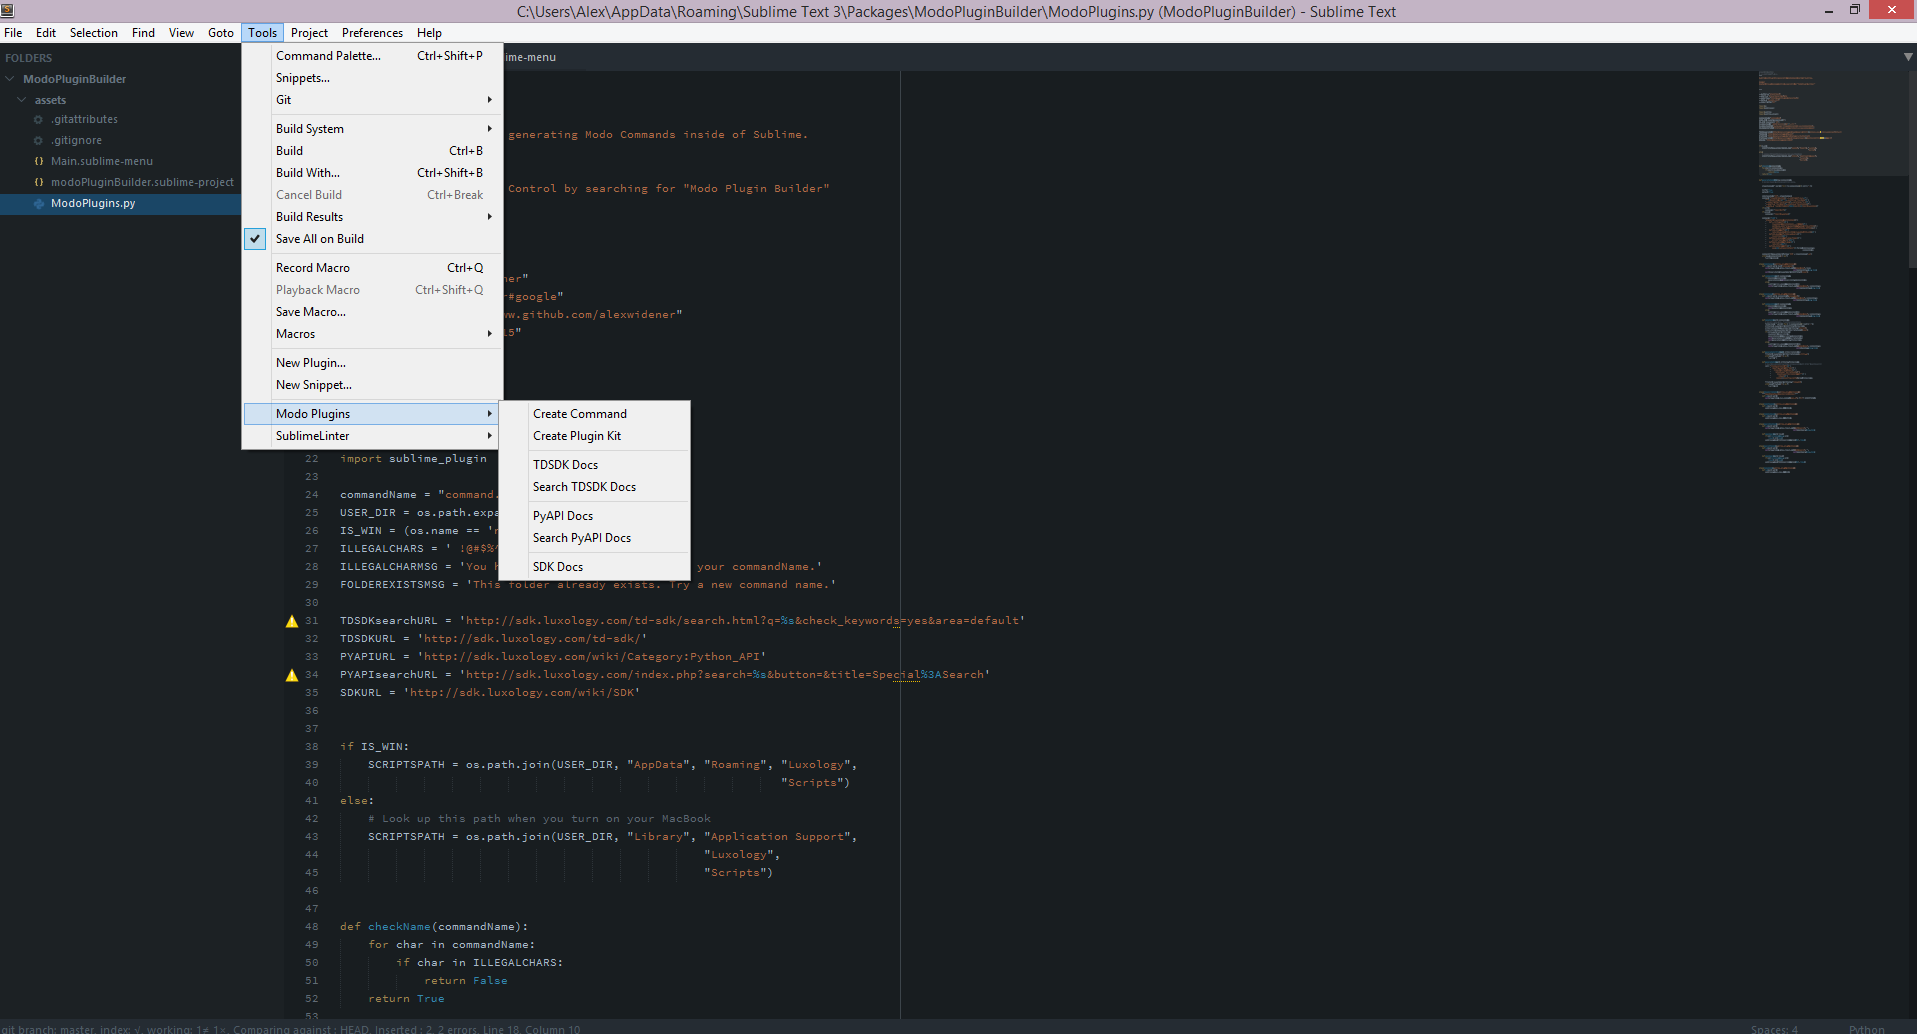
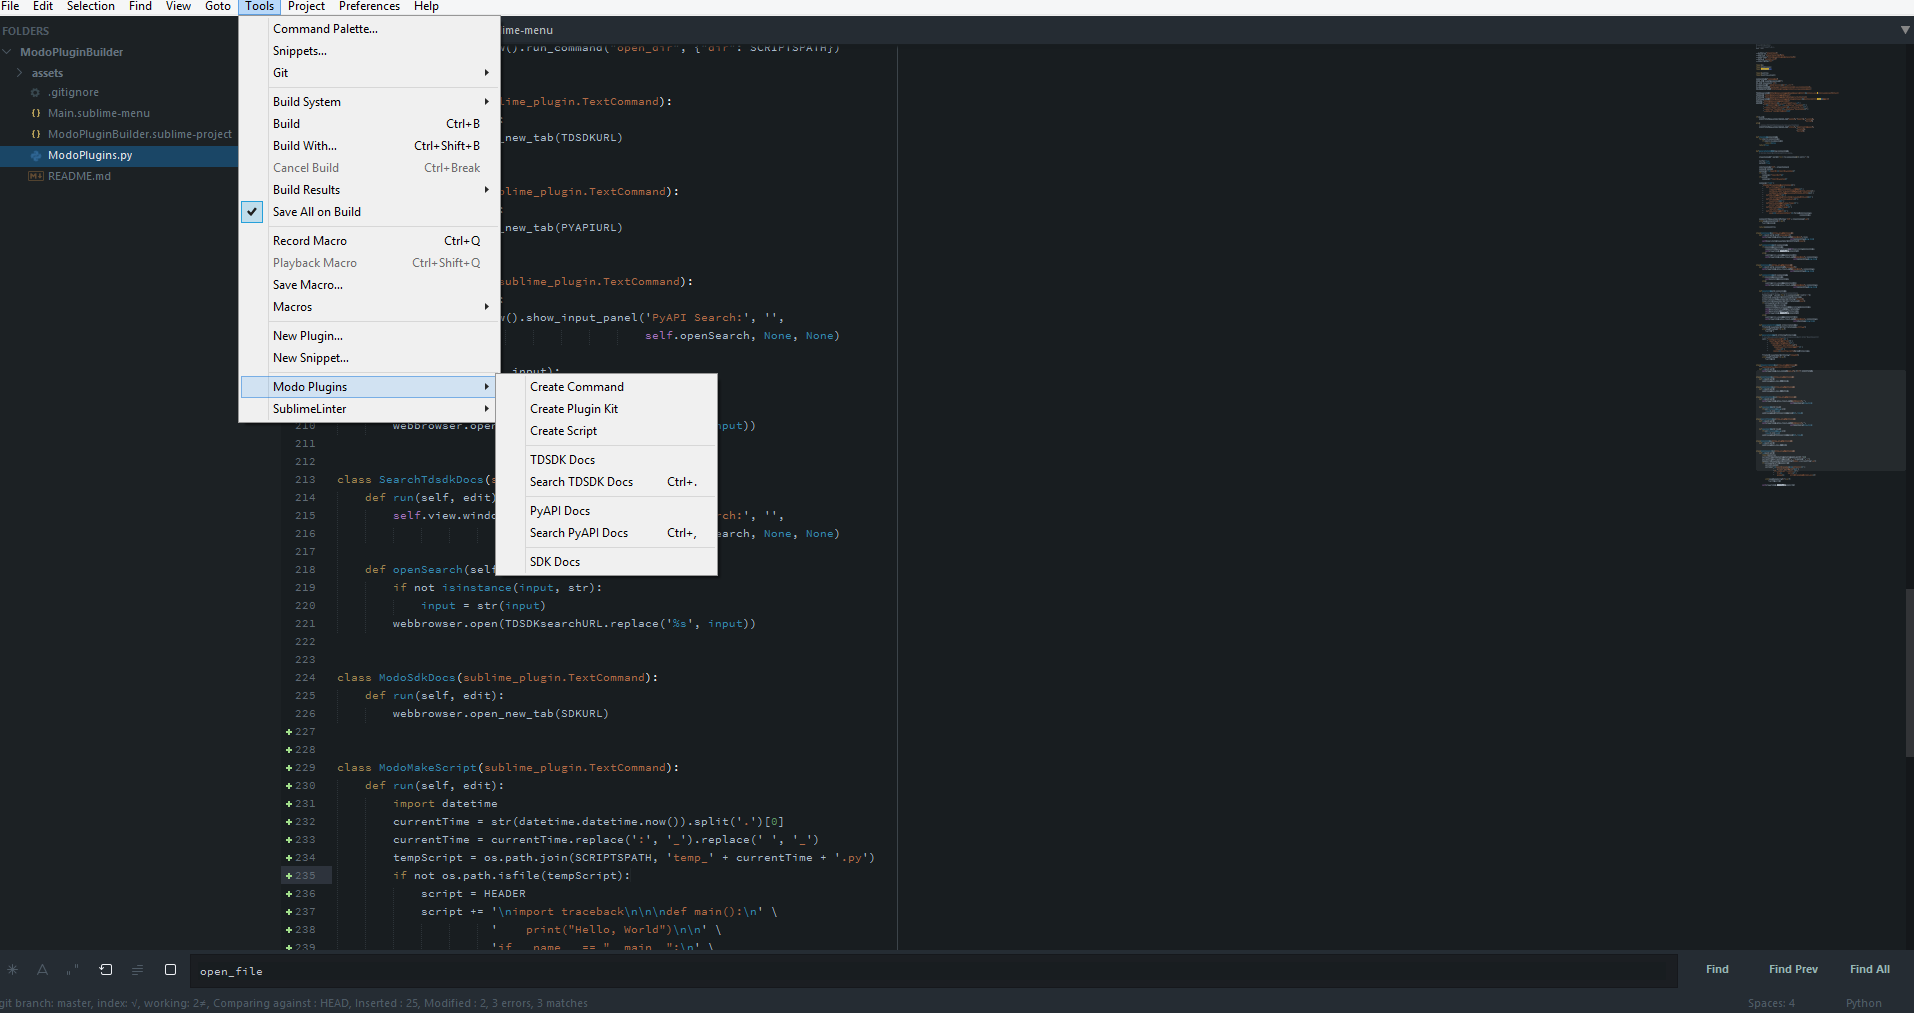
Added the ability to make a quick script
Tools > Modo Plugins > Create Script.

Changed region(s): [[0.0, 0.0, 1.0, 1.0], [0.2158, 0.0915, 0.4316, 0.3356], [0.9864, 0.5797, 1.0, 0.7628]]

diff --git a/ModoPlugins.py b/ModoPlugins.py
@@ -52,6 +52,11 @@ TDSDKURL = 'http://sdk.luxology.com/td-sdk/'
 PYAPIURL = 'http://sdk.luxology.com/wiki/Category:Python_API'
 PYAPIsearchURL = 'http://sdk.luxology.com/index.php?search=%s&button=&title=Special%3ASearch'
 SDKURL = 'http://sdk.luxology.com/wiki/SDK'
+HEADER = '#!/usr/bin/python\n# -*- coding: utf-8 -*-\n' \
+         '"""\nDocstring here\n"""\n__author__ = "Your Name"\n' \
+         '__copyright__ = "Your License"\n__version__ = "0.1"\n' \
+         '__email__ = "Your Email"\n__status__ = "Development"\n' \
+         '__date__ = "Last Edited Date"\n\n'
 
 
 if IS_WIN:
@@ -80,11 +85,8 @@ def generateCommand(folder, commandName):
     select = True
 
     cmdclassName = 'CMD' + cleanCommand
-    command = '#!/usr/bin/python\n# -*- coding: utf-8 -*-\n' \
-        '"""\nDocstring here\n"""\n__author__ = "Your Name"\n' \
-        '__copyright__ = "Your License"\n__version__ = "0.1"\n' \
-        '__email__ = "Your Email"\n__status__ = "Development"\n' \
-        '__date__ = "Last Edited Date"\n\n\nimport lx\nimport lxu.command\n'
+    command = HEADER
+    command += '\nimport lx\nimport lxu.command\n'
     if lxifc:
         command += 'import lxifc\n'
     if select:
@@ -222,3 +224,23 @@ class SearchTdsdkDocs(sublime_plugin.TextCommand):
 class ModoSdkDocs(sublime_plugin.TextCommand):
     def run(self, edit):
         webbrowser.open_new_tab(SDKURL)
+
+
+class ModoMakeScript(sublime_plugin.TextCommand):
+    def run(self, edit):
+        import datetime
+        currentTime = str(datetime.datetime.now()).split('.')[0]
+        currentTime = currentTime.replace(':', '_').replace(' ', '_')
+        tempScript = os.path.join(SCRIPTSPATH, 'temp_' + currentTime + '.py')
+        if not os.path.isfile(tempScript):
+            script = HEADER
+            script += '\nimport traceback\n\n\ndef main():\n' \
+                      '    print("Hello, World")\n\n' \
+                      'if __name__ == "__main__":\n' \
+                      '    try:\n        main()\n' \
+                      '    except:\n        print(traceback.format_exc())\n'
+
+            with open(tempScript, 'w') as f:
+                f.write(script)
+
+        self.view.window().open_file(tempScript)

diff --git a/README.md b/README.md
@@ -15,7 +15,7 @@ Both of these go to the USER Scripts folder. Part of the reason I chose to
 make this is that on OS X, the new function that is currently inside of Modo
 will install to the root directory and cause permission errors. The other
 reason I made this is because it's a nice idea but it's only available to
-people who purchased 901.
+people who purchased 901. You can also create a quick script as well.
 
 Plus, I prefer Sublime.
 
